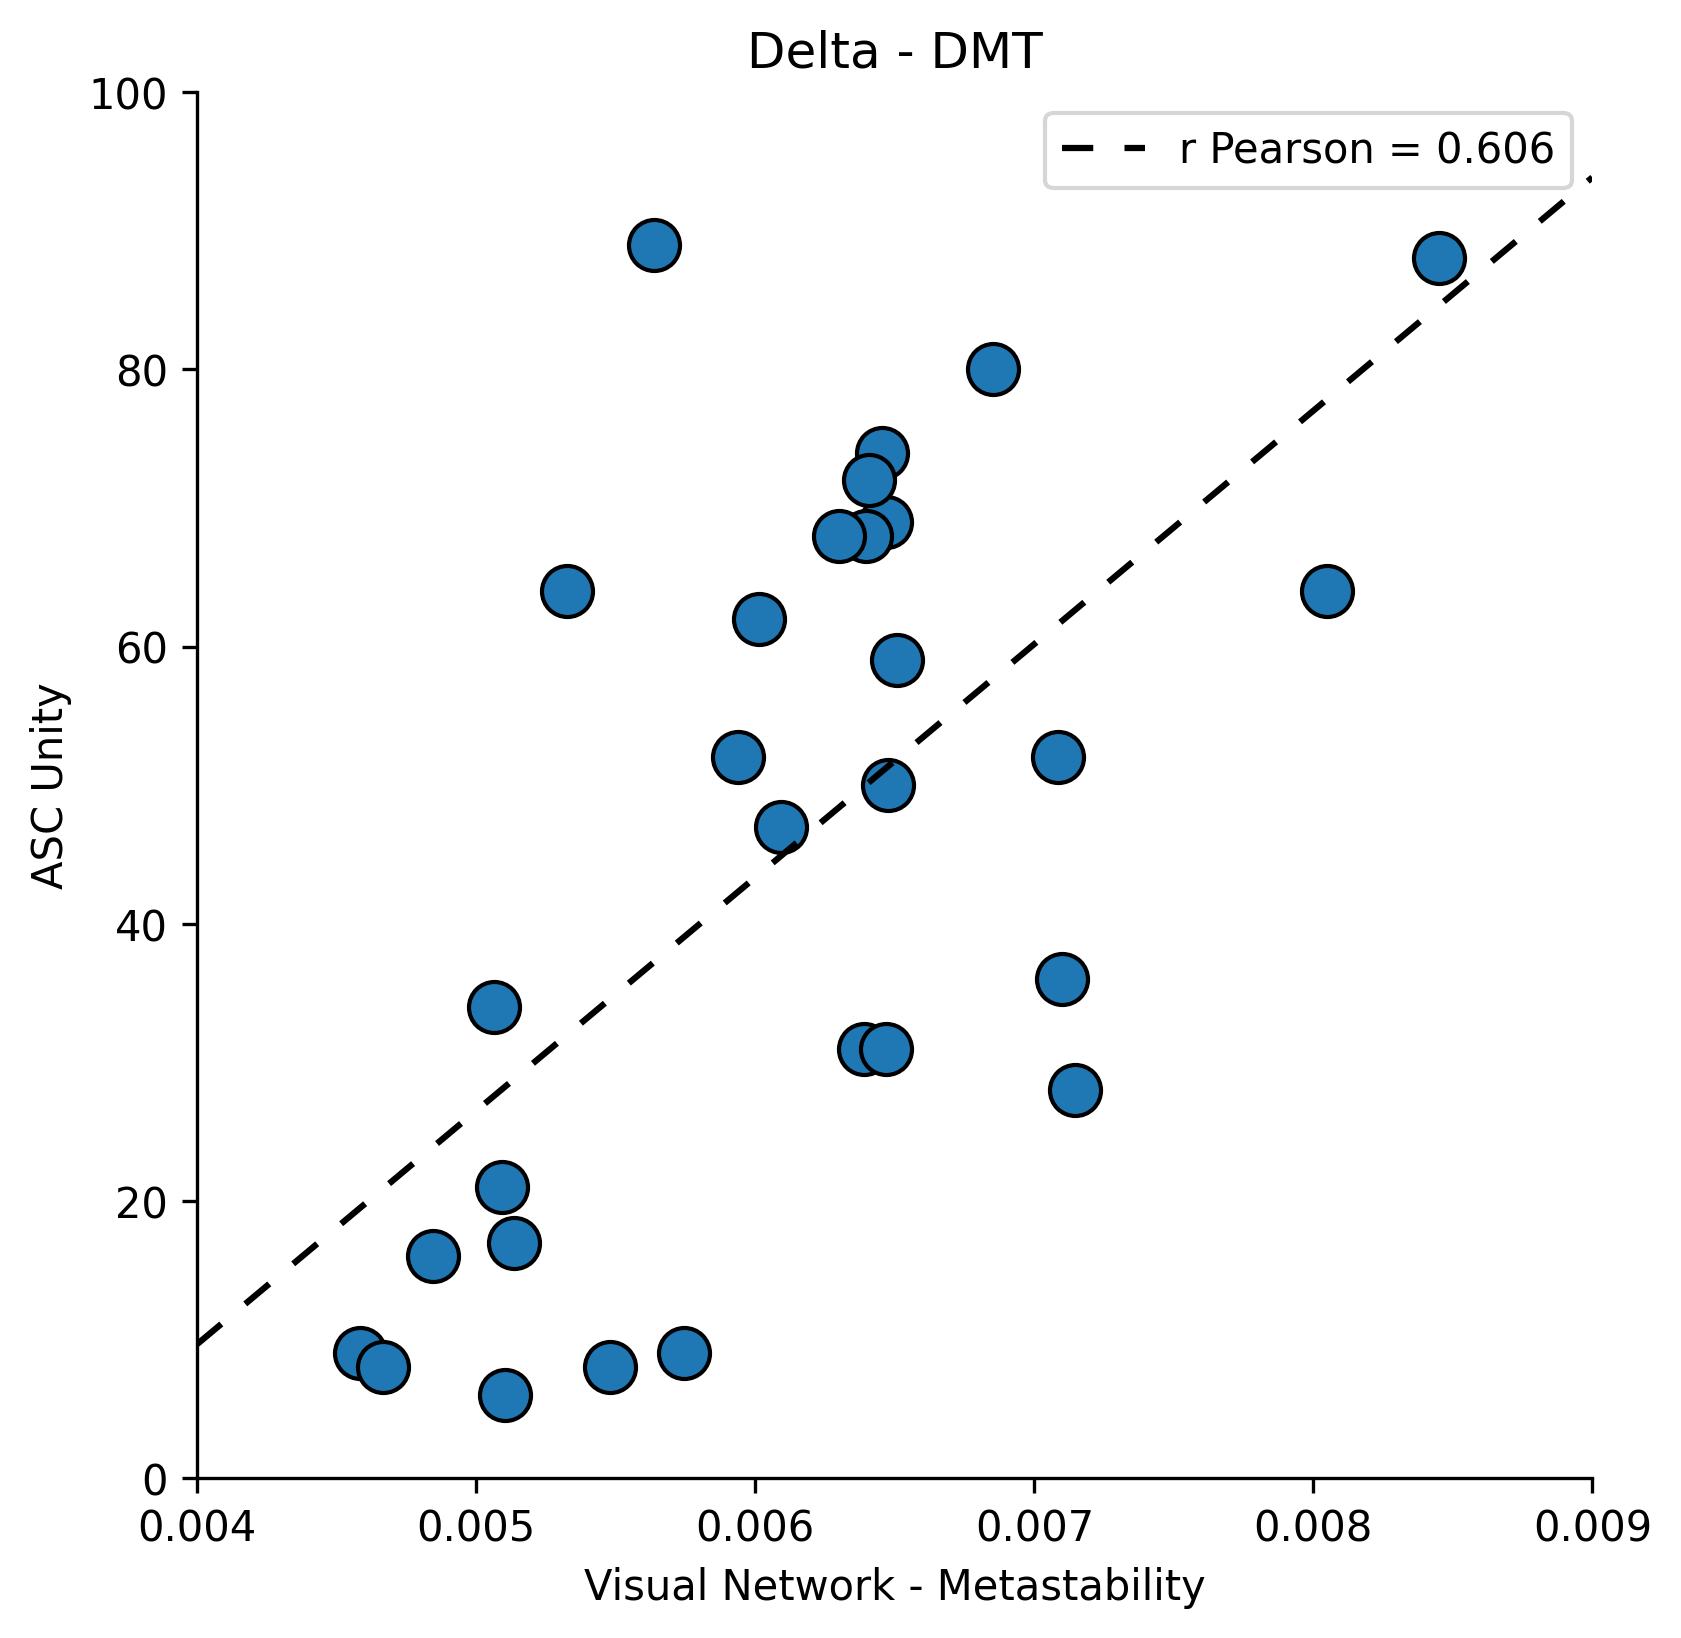
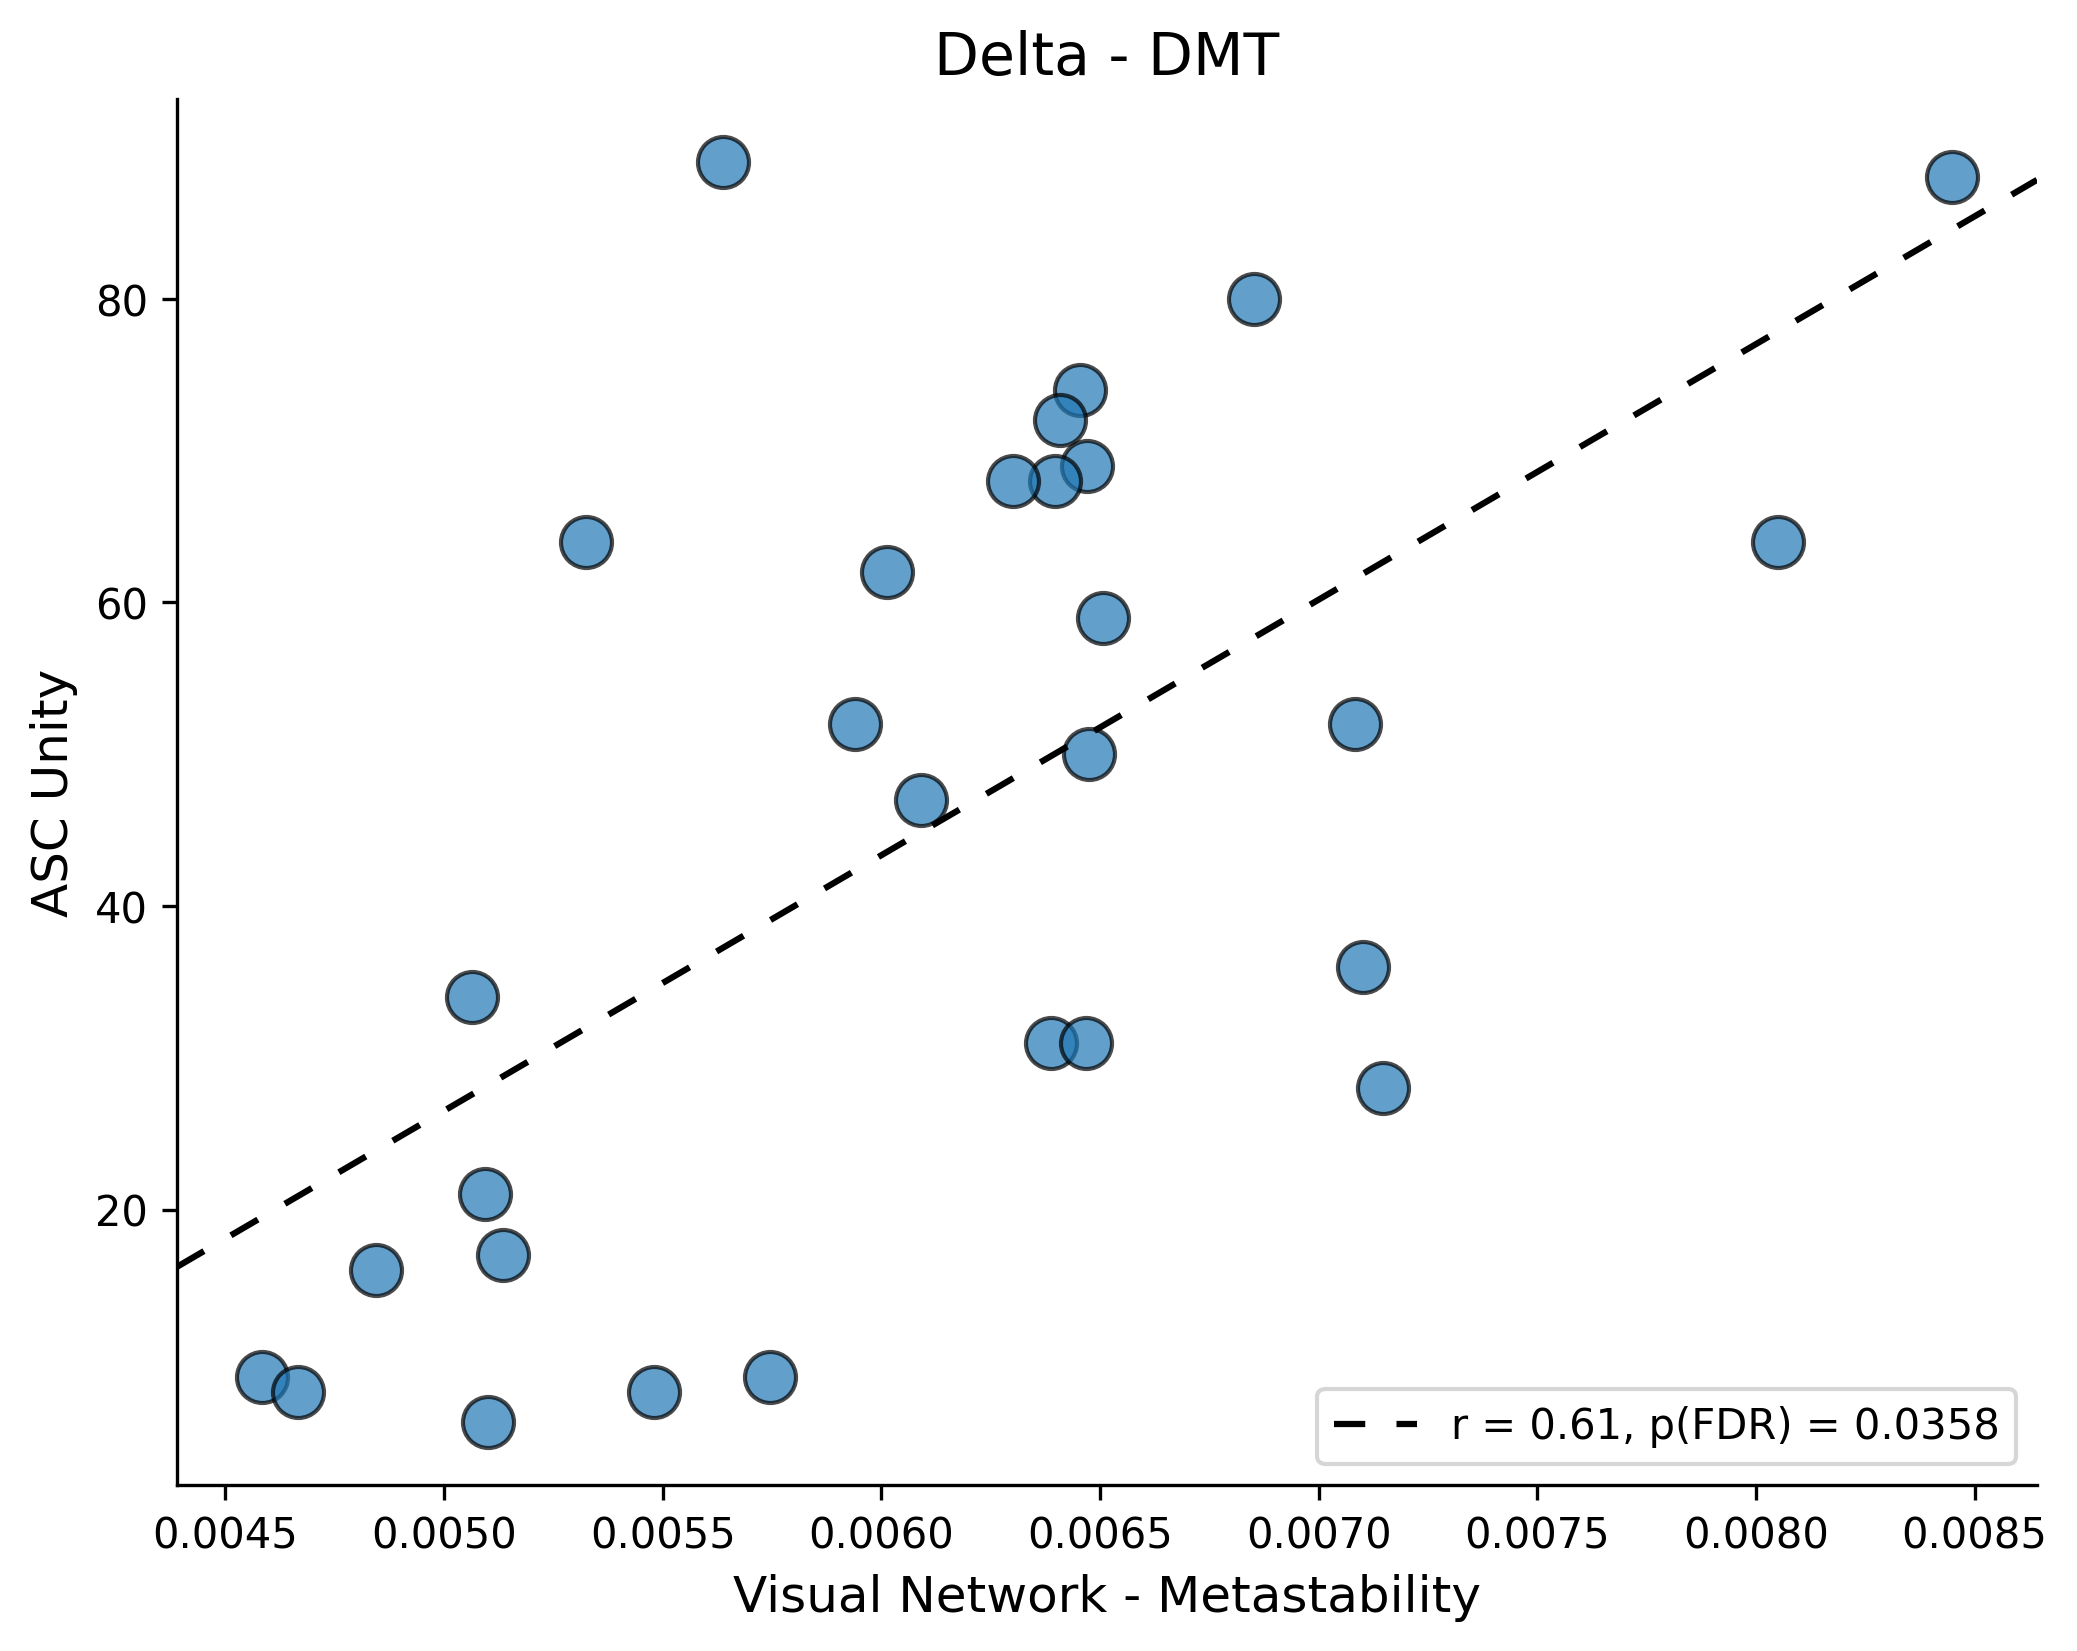
Fix scatter plot images - use original PNGs
Added 3 correlation scatter plots:
- ASC Unity (r=0.606)
- MEQ Mystical
- MEQ Ineffability

diff --git a/README.md b/README.md
@@ -295,13 +295,15 @@ python pipeline/pearson.py
 
 <p align="center"><em>Matriz de correlaciones de Metastabilidad (DMT) - 5 bandas × 7 redes × 19 escalas de cuestionarios. Valores significativos tras corrección FDR resaltados. Cada celda muestra el coeficiente r de Pearson entre la metastabilidad de una red en una banda específica y una escala del cuestionario.</em></p>
 
-#### Ejemplo de Correlación Significativa
+#### Ejemplos de Correlaciones Significativas
 
 <p align="center">
-  <img src="readme/pearson_results/scatter_metastability_DMT_Delta_VN_score_0_ASC_Unity.png" alt="Scatter Correlation" width="500"/>
+  <img src="readme/pearson_results/scatter_metastability_DMT_Delta_VN_score_0_ASC_Unity.png" alt="Scatter ASC Unity" width="300"/>
+  <img src="readme/pearson_results/scatter_metastability_DMT_Delta_VN_score_15_MEQ_Mystical.png" alt="Scatter MEQ Mystical" width="300"/>
+  <img src="readme/pearson_results/scatter_metastability_DMT_Delta_VN_score_18_MEQ_Inefability.png" alt="Scatter MEQ Ineffability" width="300"/>
 </p>
 
-<p align="center"><em>Correlación entre Metastabilidad de la Red Visual (banda Delta) y la escala ASC Unity durante DMT. r = 0.606, indicando que mayor variabilidad en la sincronización visual se asocia con experiencias más intensas de unidad mística.</em></p>
+<p align="center"><em>Correlaciones significativas entre Metastabilidad de la Red Visual (Delta) y escalas subjetivas durante DMT. De izquierda a derecha: ASC Unity (r=0.606), MEQ Mystical, MEQ Ineffability. Mayor variabilidad en sincronización visual se asocia con experiencias místicas más intensas.</em></p>
 
 #### Distribución del Parámetro de Kuramoto por Red y Banda
 
